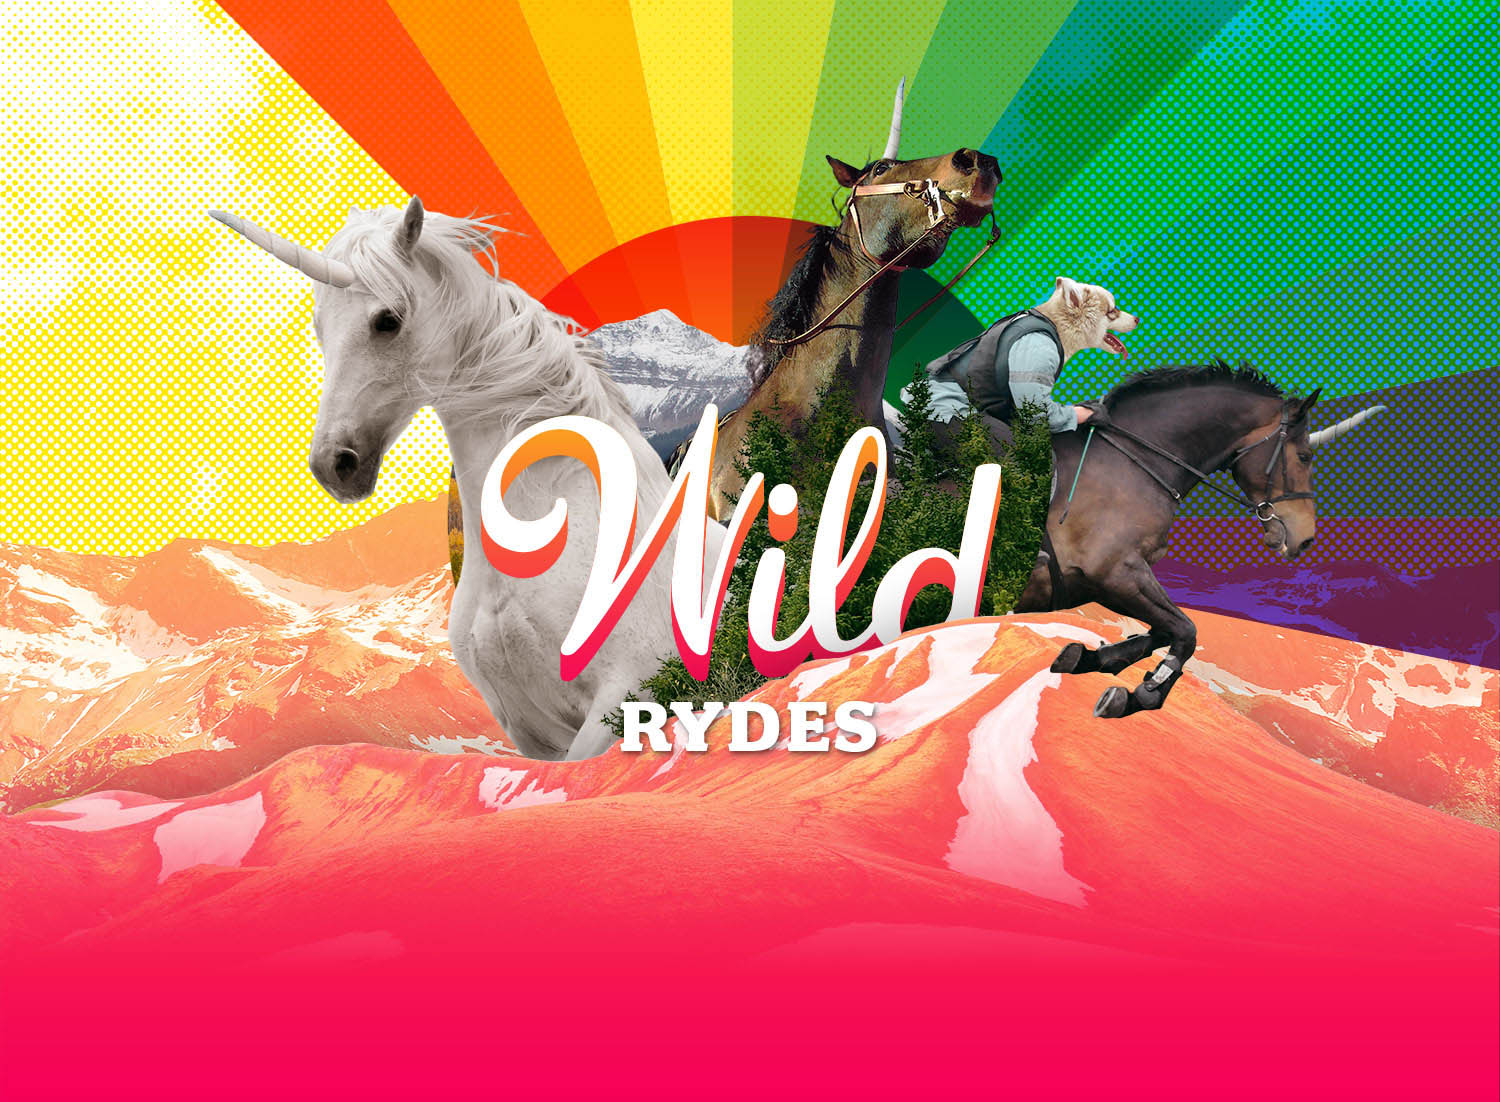
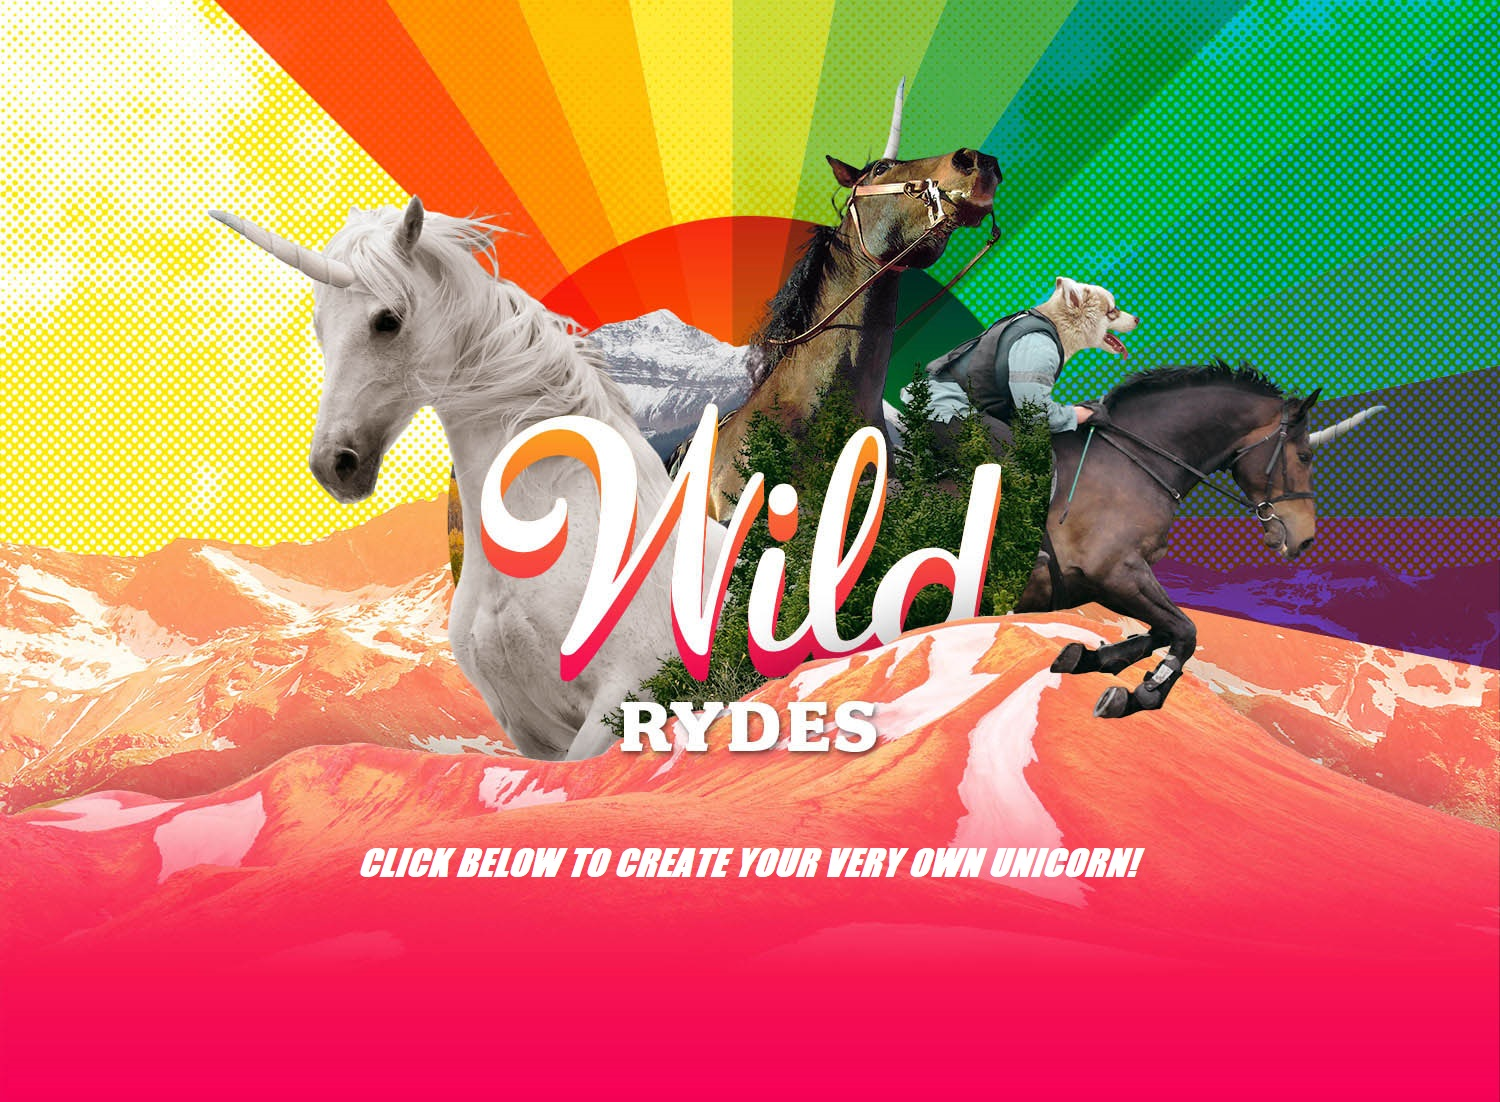
test

diff --git a/crunicorn.html b/crunicorn.html
@@ -41,8 +41,15 @@
                 <option value="blue">Blue</option>
                 <option value="green">Green</option>
               </select><br>
+
+              <label for="gender">Gender</label>
+              <select id="gender" name="gender">
+                <option value="male">Male</option>
+                <option value="female">Female</option>
+                <option value="other">Other</option>
+              </select>
             
-              <input type="submit" value="Create Unicorn">
+              <input type="submit" value="Create!">
             </form>
             
         </section>

diff --git a/index.html b/index.html
@@ -27,7 +27,6 @@
         <li><a href="apply.html">Apply</a></li>
       </ul>
     </nav>
-    <h1 class="section-title">CLICK BELOW TO CREATE YOUR OWN UNICORN</h1> 
     <button type="button" class="btn-menu"><span>Menu</span></button>
     <a class="home-button" href="crunicorn.html">CREATE UNICORN!!</a>
   </header>
